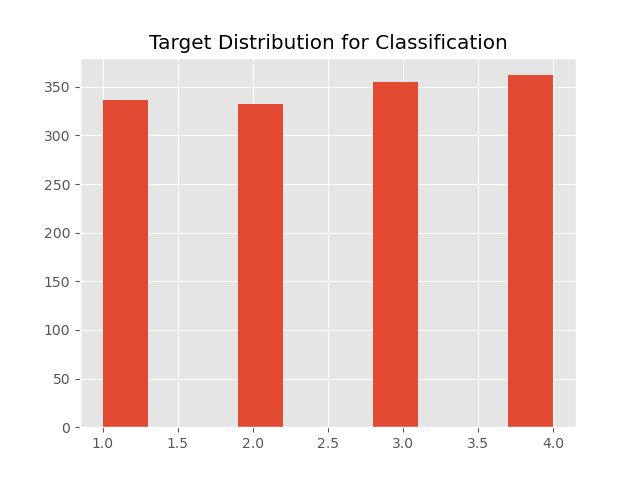
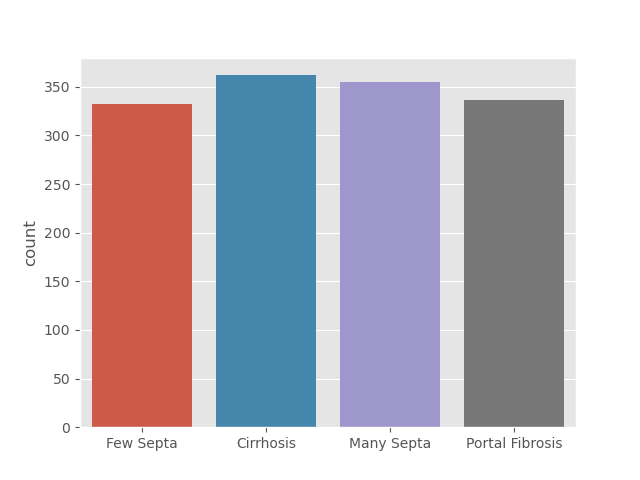
changed visualizations and added new plots

diff --git a/src/viz/eda.py b/src/viz/eda.py
@@ -7,6 +7,7 @@ from numpy.linalg.linalg import svd
 from matplotlib import pyplot as plt
 from scipy.stats.kde import gaussian_kde
 from matplotlib.pyplot import figure
+import seaborn as sns
 
 dataset = pd.read_csv("src/data/HCV-Egy-Data.csv", delimiter=',')
 
@@ -21,9 +22,7 @@ new_features_col = ['Age', 'Male','Female','BMI',
 targets_col_reg = list(dataset.columns)[-2]
 targets_col_clas = list(dataset.columns)[-1]
 
-
 x = dataset.loc[:, features_col].values
-
 new_x = []
 cols = [1,3,4,5,6,7,8,9] # binary columns
 for column in range(x.shape[1]):
@@ -41,17 +40,6 @@ new_x = np.array(new_x).T
 x_df = pd.DataFrame(new_x)
 x_df.columns = new_features_col
 
-
-y_clas = dataset.loc[:,[targets_col_clas]].values
-y_reg = dataset.loc[:,[targets_col_reg]].values
-
-y_reg = y_reg/np.max(y_reg)
-y_reg = np.add(y_reg, y_clas)
-y_reg = y_reg-np.min(y_reg)
-y_reg = y_reg/np.max(y_reg)
-
-
-
 f = plt.figure(figsize=(15, 15))
 plt.matshow(x_df.corr(), fignum=f.number)
 plt.xticks(range(x_df.shape[1]), x_df.columns, fontsize=10, rotation=90)
@@ -63,56 +51,74 @@ plt.savefig('src/viz/plots/cross_correlation_matrix.png')
 
 
 
-cols_to_drop = [1,3,4,5,6,7,8,9]
+cat_cols = ['Gender','BMI','Fever','Nausea/Vomting','Headache ',
+                'Diarrhea ','Fatigue & generalized bone ache ','Jaundice ','Epigastric pain ']
+cont_cols = [x for x in features_col if x not in cat_cols]
+
 plt.clf()
 plt.cla()
 plt.style.use('ggplot')
 fig = figure()
-fig, ax = plt.subplots(5, 6)
-fig.suptitle('Features Distribution')
-for col in range(x.shape[1]):
-    if col not in cols_to_drop:
-        n, bins, _ = plt.hist(x[:,col], bins=20, rwidth=0.50)
-        data = []
-        for index in range(n.shape[0]):
-            data += [bins[index]]*int(n[index])
-        density = gaussian_kde(data)
-        xs = np.linspace(min(bins), max(bins), 50)
-        density.covariance_factor = lambda : .25
-        density._compute_covariance()
-        matrix_row, matrix_col = int(col/6), int(col%6)
-        ax[matrix_row, matrix_col].plot(xs, density(xs))
-    else:
-        matrix_row, matrix_col = int(col/6), int(col%6)
-        ax[matrix_row, matrix_col].hist(x[:,col])
-        
-for i, ax in enumerate(ax.flat):
-    if i == 29:
-        ax.cla()
+fig, ax = plt.subplots(3, 6)
+fig.suptitle('Age & Medical Measurements Distribution')
+for i, ax in zip(range(18), ax.flat):
     ax.label_outer()
     ax.set_xticks([])
     ax.set_yticks([])
-    
+    sns.distplot(dataset[cont_cols[i]], bins=20, label=cont_cols[i], rug=True, ax=ax)
+    ax.set_xlabel(cont_cols[i], fontsize=10)
 
-
-plt.savefig('src/viz/plots/features_dist.png')
-
+plt.savefig('src/viz/plots/med_measurements_dist.png')
 
 plt.clf()
-plt.hist(y_clas)
-plt.title("Target Distribution for Classification")
+plt.cla()
+plt.style.use('ggplot')
+fig = figure()
+fig, ax = plt.subplots(3, 3)
+fig.suptitle('Gender, BMI & Sympthoms Distribution')
+for i, ax in zip(range(9), ax.flat):
+    ax.label_outer()
+    ax.set_xticks([])
+    #ax.set_yticks([])
+    sns.countplot(dataset[cat_cols[i]], label=cat_cols[i], ax=ax)
+    ax.set_xlabel(cat_cols[i], fontsize=10)
+
+plt.savefig('src/viz/plots/sympthoms_measurements_dist.png')
+
+
+
+
+
+y_clas = dataset.loc[:,[targets_col_clas]].values
+class_names = ['Portal Fibrosis', 'Few Septa', 'Many Septa', 'Cirrhosis']
+t_names = []
+for i in range(len(y_clas)):
+    t_names.append(class_names[y_clas[i][0]-1])
+t_names = np.array(t_names)
+
+y_reg = dataset.loc[:,[targets_col_reg]].values
+y_reg = y_reg/np.max(y_reg)
+y_reg = np.add(y_reg, y_clas)
+y_reg = y_reg-np.min(y_reg)
+y_reg = y_reg/np.max(y_reg)
+
+y_reg = [element[0] for element in y_reg]
+
+plt.clf()
+sns.countplot(t_names)
+#sns.title("Target Distribution for Classification")
 plt.savefig('src/viz/plots/target_classes.png')
 
+
 plt.clf()
-plt.hist(y_reg)
-plt.title("Target Distribution for Regression")
+sns.countplot(y_reg)
+#sns.title("Target Distribution for Regression")
 plt.savefig('src/viz/plots/target_regr.png')
 
-
-
-"""
 plt.clf()
-plt.boxplot(data_to_plot)
-plt.title("Box-and-Whisker for continuous variables")
-plt.show()
-"""
+
+sns.countplot(x=dataset['Baselinehistological staging'],hue=dataset['Gender'])
+plt.legend(bbox_to_anchor=(1,1))
+plt.title("Gender Chart for Histological Staging")
+plt.xlabel("Histological Staging")
+plt.savefig('src/viz/plots/gender_chart_staging.png')
